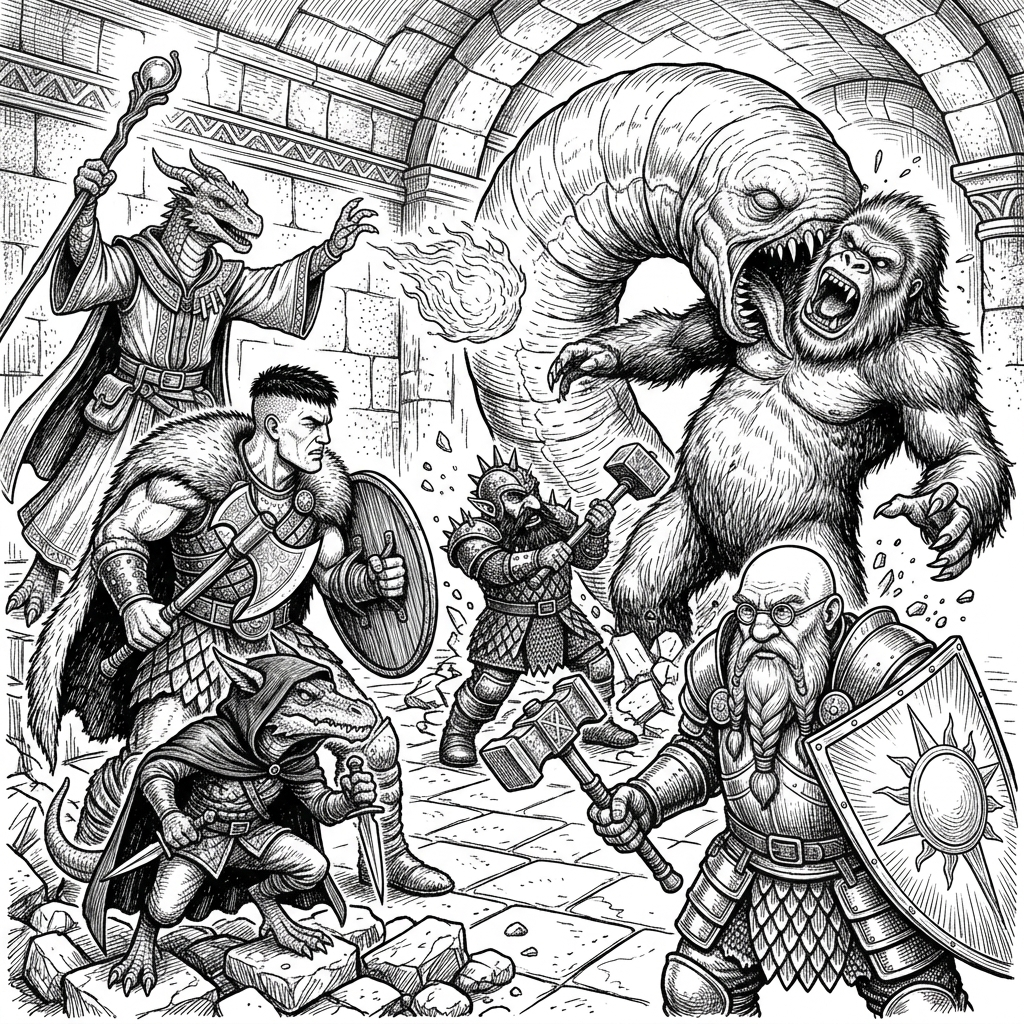
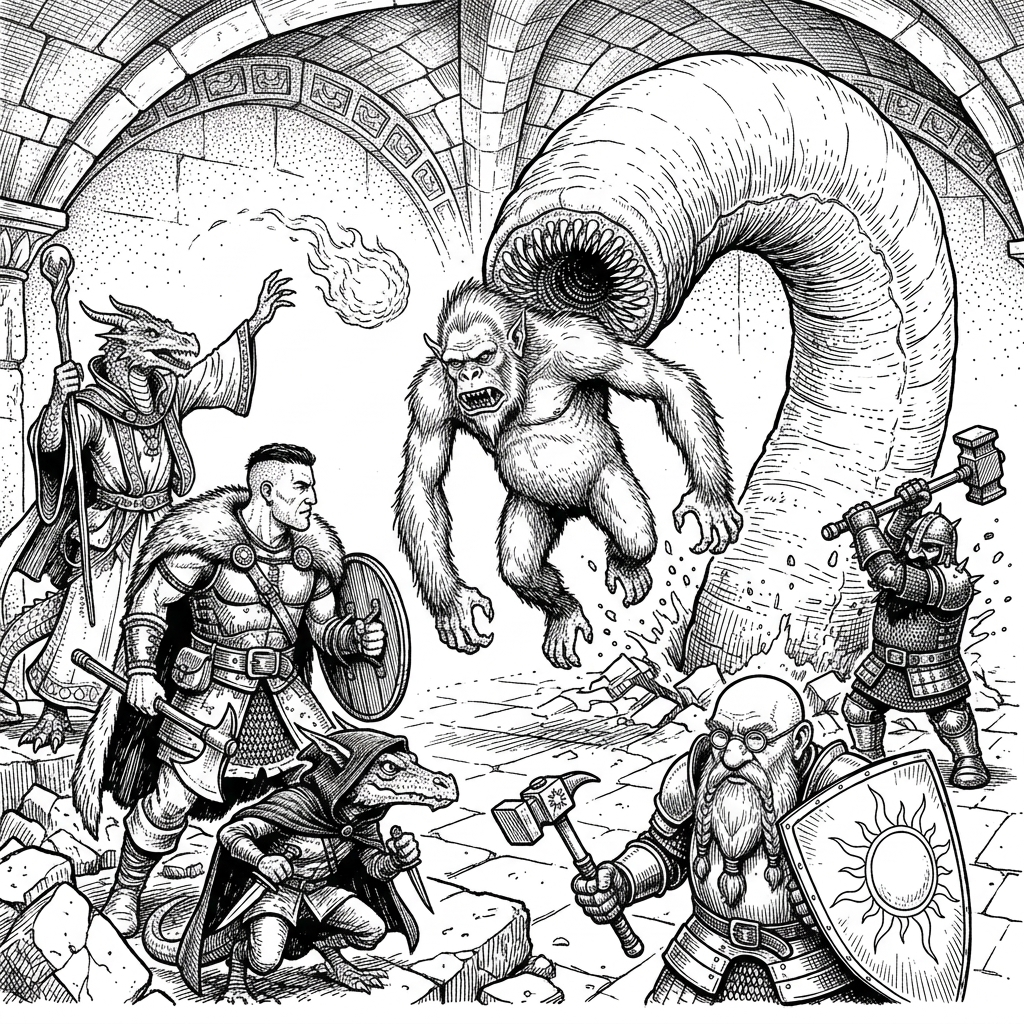
style: update Grey Burrower scene plate with loose organic fine dip-pen linework, male warrior Thorn, and quaggoth.jpg ape anatomy

diff --git a/src/lib/build-info.ts b/src/lib/build-info.ts
@@ -1,3 +1,3 @@
 // Generated by scripts/write-build-info.mjs — do not edit
-export const SITE_EDITION = "e30f5af";
-export const SITE_BUILT_AT = "2026-07-26T08:21:44.549Z";
+export const SITE_EDITION = "af1319d";
+export const SITE_BUILT_AT = "2026-07-26T08:38:01.316Z";

diff --git a/publish/source/ART-STYLE-BRIEF.md b/publish/source/ART-STYLE-BRIEF.md
@@ -1,6 +1,6 @@
 # Art Style Brief & Canonical Depiction Rules — The Ruins of Ethium
 
-This document defines the visual style standards, canonical character visual rules, and AI image generation briefs for *The Ruins of Ethium*.
+This document defines the visual style standards, canonical character visual rules, monster reference designs, and AI image generation briefs for *The Ruins of Ethium*.
 
 ---
 
@@ -18,7 +18,19 @@ Unless explicitly instructed otherwise by the user, **all scene illustrations MU
 
 ---
 
-## 2. Chapter Art Brief (Internal Book Plates)
+## 2. Canonical Monster Reference Designs
+
+Canonical monster art references are stored in `publish/illustrations/monsters/`:
+
+| Monster | Reference File | Visual Features & Anatomical Rules |
+| :--- | :--- | :--- |
+| **Quaggoth** | `publish/illustrations/monsters/quaggoth.jpg` | Hunched bipedal/knuckle-walking yeti-gorilla beast, shaggy fur, long ape arms with sharp claws, broad flat ape face, pointed ears, small chin beard, sharp fangs in a wide grinning mouth. *NEVER depict as a wolf or canine.* |
+| **Duergar** | `publish/illustrations/monsters/druegar.jpg`, `druegar 2.webp` | Dark grey/ash-skinned dark dwarves, wild white/pale beard, glowing pale eyes, spiked iron pauldrons, bone-reinforced heavy shields, and spiked warhammers. |
+| **Goblin** | `publish/illustrations/monsters/goblin.png` | Lean, wiry green-skinned goblins with large pointed ears, sharp teeth, crude leather/scale armor, and jagged iron weapons. |
+
+---
+
+## 3. Chapter Art Brief (Internal Book Plates)
 
 **Reference Folder:** `publish/source/inbox/illustration style/chapter art/`  
 *(Key reference examples: `fighting-fantasy-russ-nicholson.jpg`, `titanruss.png`, `Fighting-Fantasy-10.jpg`)*
@@ -38,7 +50,7 @@ Unless explicitly instructed otherwise by the user, **all scene illustrations MU
 
 ---
 
-## 3. Cover Art Brief (Full-Color Art)
+## 4. Cover Art Brief (Full-Color Art)
 
 **Reference Folder:** `publish/source/inbox/illustration style/cover art/`  
 *(Key reference examples: `cover1.jpg`, `Warlock_25th.jpg`, `DandD-Cover-Crop.webp`)*
@@ -50,7 +62,7 @@ Unless explicitly instructed otherwise by the user, **all scene illustrations MU
 
 ---
 
-## 4. Master Image Generator Prompts
+## 5. Master AI Generator Prompts
 
 ### Chapter Art Master Prompt (Black & White Pen-and-Ink)
 ```text
